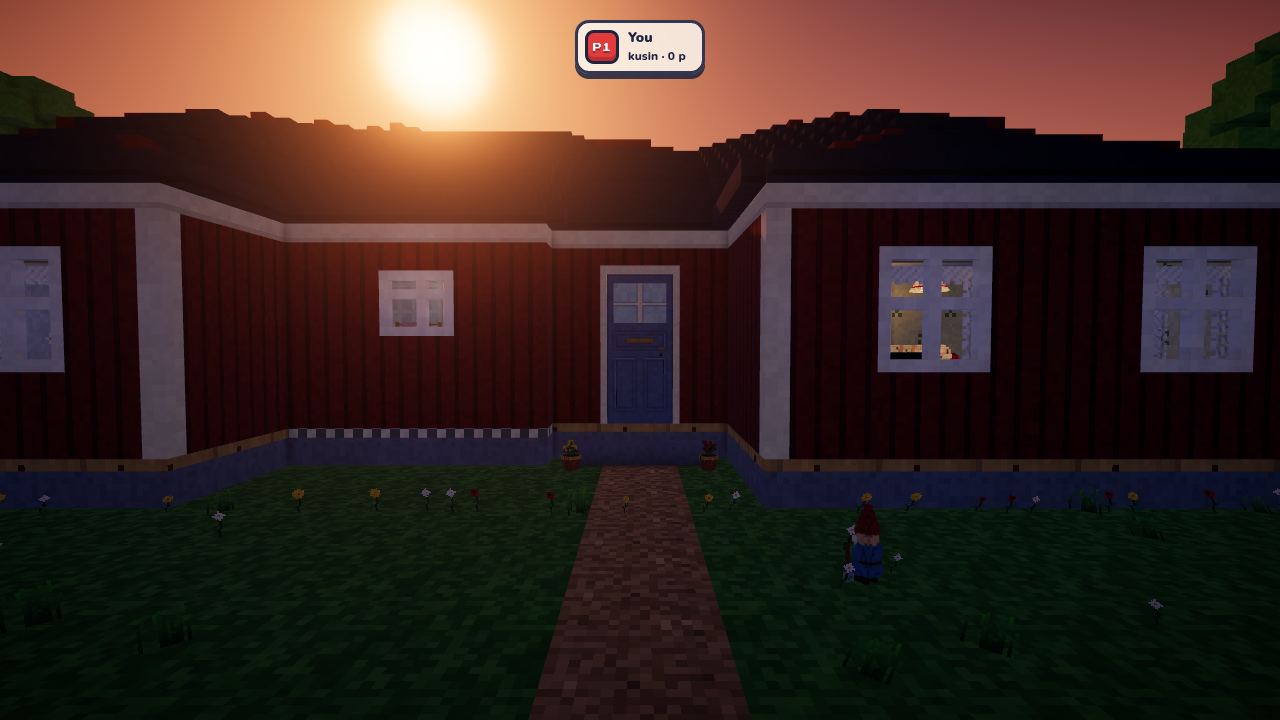
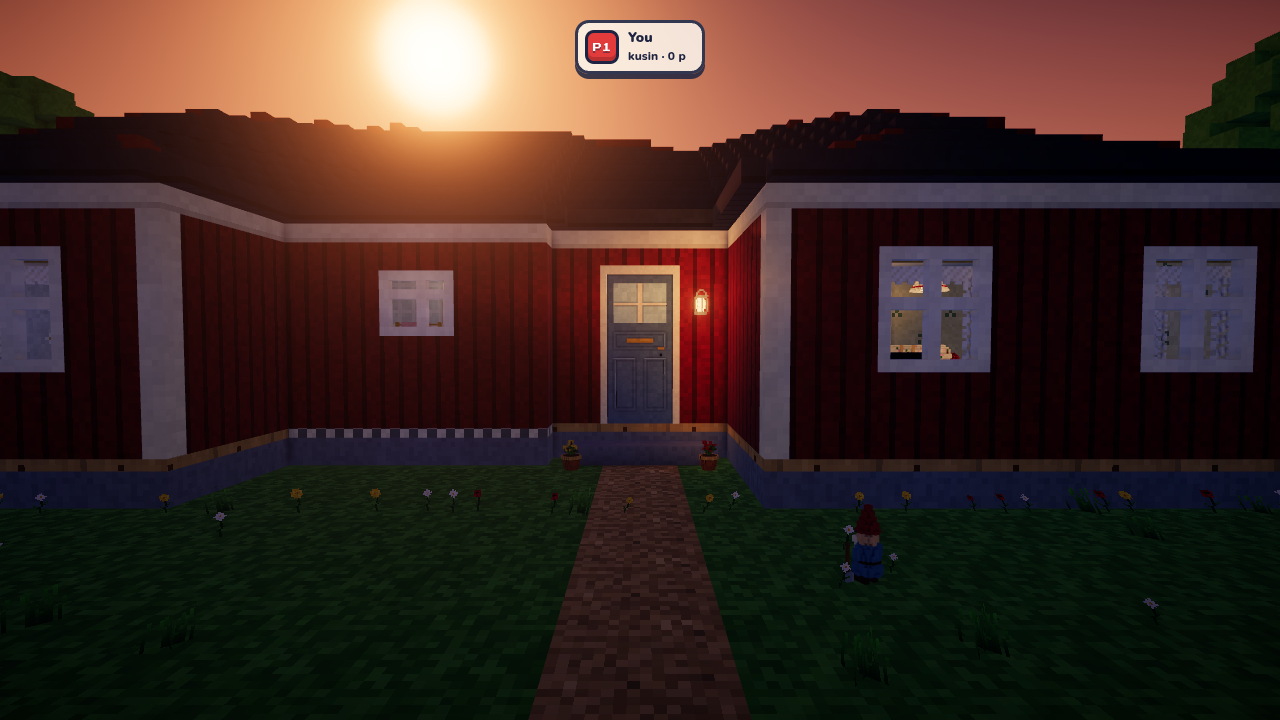
PLAN: resultat för fas 3, ärligt om vp check och tyngden
Claude-Session: https://claude.ai/code/session_01Y6MZe7NhWEZPxEuSNh2RSa

diff --git a/PLAN.md b/PLAN.md
@@ -273,6 +273,12 @@ Ditt önskemål: "det viktiga är alla environments och att vi bygger klart huse
 - [x] Kusin-CPU:n letar i hela huset och trädgården; testet är två rundor (huset är stort för en kusin).
 - [x] Fotopunkter för varje rum och tre i trädgården (`look.ts`: V1, V2, H1, F1, B1, R1, Y1, G1–G3).
 - **Undantag i galleriet (avsiktligt):** röd och blå dalahäst, garnnystan i tre färger och blomkrukor i två färger är samma form i olika färger. Det är meningen: de ska kunna förväxlas, och listan räknar dem var för sig.
+- **Resultat (2026-10-06):**
+  - Tester: 9 av 9 (CPU-testet spelar tre rundor i det stora huset).
+  - Bildtestet: 17 av 18 fotopunkter klarar det. J1 (jordkällaren) är mörk med flit: en lykta i ett stenvalv. Säg till om du vill ha den ljusare.
+  - Galleriet: 143 modeller, inga ⚠ utom de avsiktliga omfärgningarna ovan.
+  - `vp check`: allt grönt utom sessionen med seed 8919 (samma tidsartefakt i molnmiljön som i fas 1). Sessionen med seed 1000 slutar nu efter cirka 23 s med en spelare. Riggen räknar den som godkänd, men varför den slutar kan jag inte återskapa: ensam i spelet i 40 s står det kvar i VÄNTAR som det ska. Båda behöver köras om på en dator med grafikkort.
+  - Risk: scenen är tung för mjukvarurendering, med omkring 290 placerade saker i 140 modeller. På datorer med grafikkort ska det vara lugnt; på telefon behöver det mätas (`vp check --long` på riktig hårdvara).
 - [ ] Radion (dansband i 20 s som döljer ljud i vardagsrummet).
 - [ ] Mormor och Misse som rör sig.
 - [x] **Jordkällaren:** en gräsklädd kulle i trädgårdens nordvästra hörn, stenfasad, sju trappsteg ner, ett stenvalv med jordgolv och bjälkar, upplyst av en lykta. Hylla med sylt och saft, äppellådor, potatissäckar, mjölkkanna. Fotopunkter J1 och J2.
